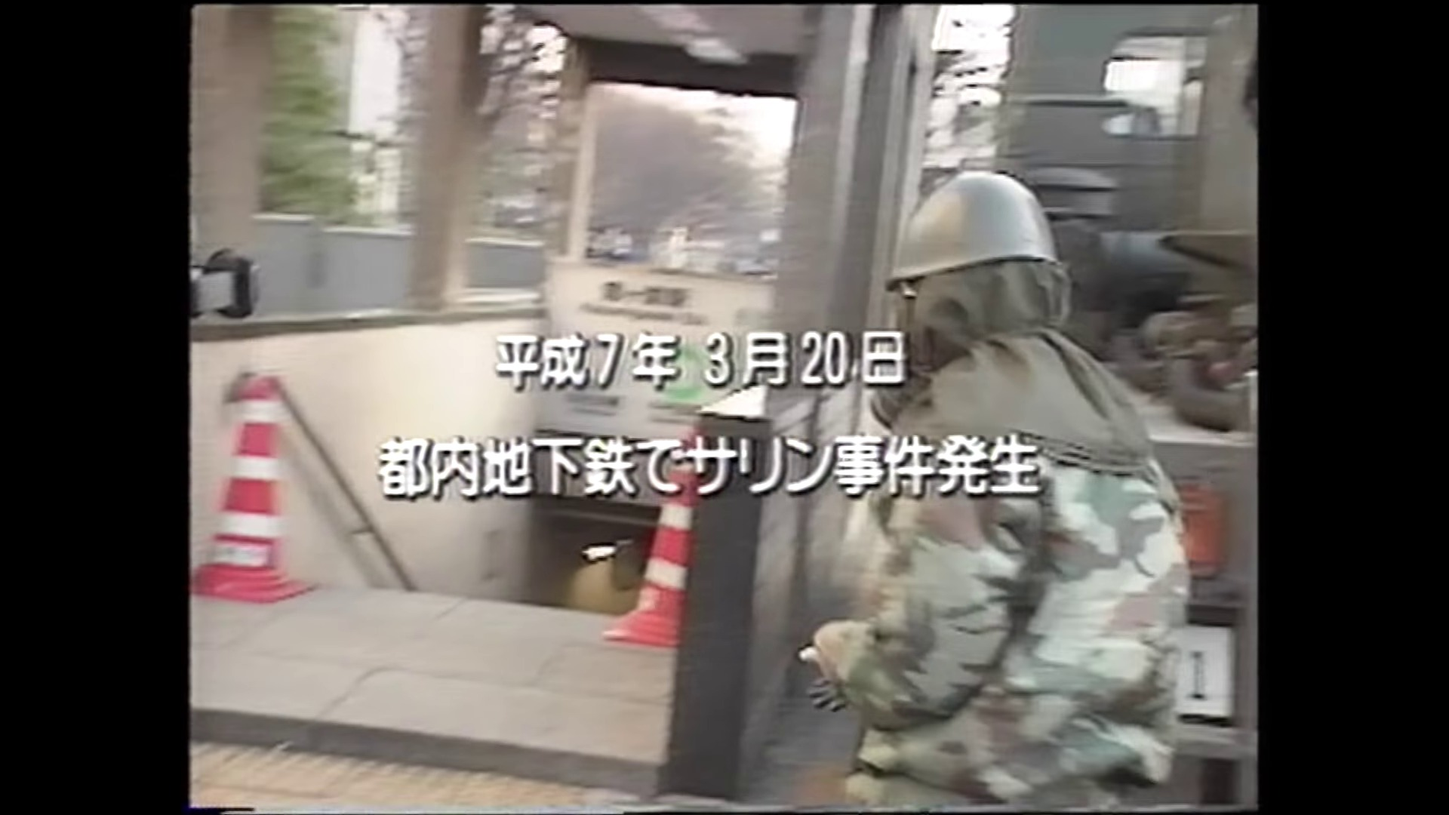
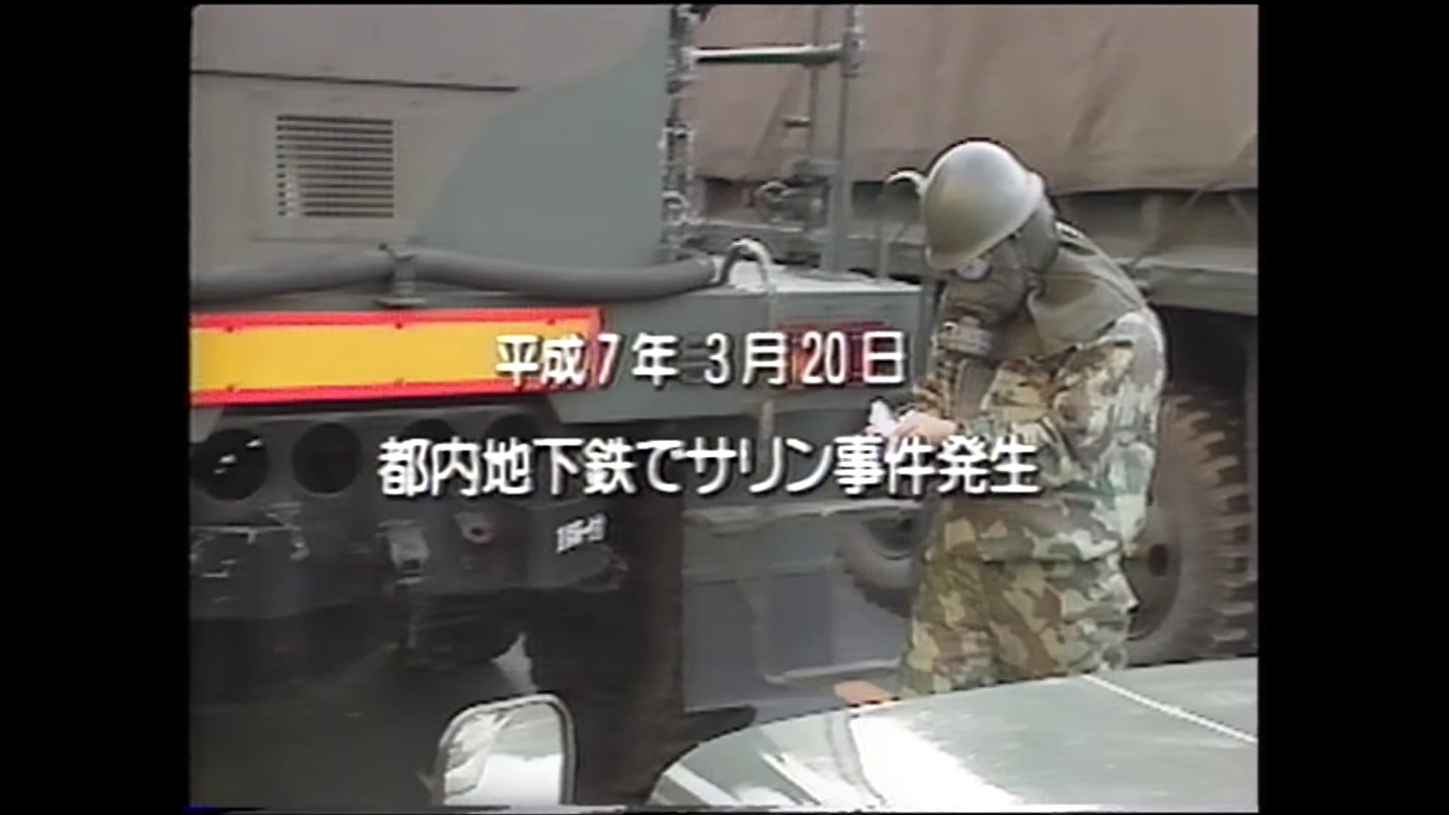
30本目 ⑤b-2 直し: タンクの手書きの字を写さない（M6 の4カットを割り直し・NOGO）・出典の行の「提供：」の重なり
- 焼いた絵の全面でタンクの手書きの字が読めた＝この回の線と混同されないよう外した（footage.NOGO 1059.1〜1062.75）
- c102 0.81倍速／c101 0.98倍速（焼き込みの字幕の頭から）／cb14 0.83倍速／c107 0.86倍速。M6 の出典の行に「再生速度」
- 個人の提供者の表は「提供：○○」のまま＝scene_jiko._ep30_person で重ねない

diff --git a/tools/footage.py b/tools/footage.py
@@ -406,6 +406,7 @@ NOGO = {
     # 🔴 2026-11-05（30本目 ⑤b-1）：印を30本目に替えた（29本目は空のままだった）。30本目は防衛省の記録とフリー素材＝使う区間を焼いて
     #    人の顔・ナンバー・店の名前・読める画面の字を見て、使わない秒が出たら束のチャットで書く（M6 の使える秒は `ref/ep30/eizou_build/make_list30.py` の M6_OK）
     # EP30_NOGO>>> ここから（手で書かない）
+    "M6": [(1059.1, 1062.75, 'タンクの手書きの字が読める')],
     # EP30_NOGO>>> ここまで
 }
 
@@ -691,12 +692,12 @@ USE = {
     #   取ったら `over30.psv` の動きの欄に「映像 a〜b秒」と書いて `make_list30.py` の門番（区間＋止め ≧ 中身・素材の実の長さ）を通してから、欄は束のチャットで道具から書き出す
     #   （手で書かない）＝下の印のあいだ。等速が基本・音は使わない（-an）
     # EP30_USE>>> ここから（手で書かない）
-    "c101": dict(clip="M6", start=1051.26, until=1060.79, rate=1.0, edit=True),   # 使う 9.53秒／要る 9.52秒・元の編集の切れ目 1056.7
-    "c102": dict(clip="M6", start=1042.52, until=1051.18, rate=1.0, edit=True),   # 使う 8.66秒／要る 8.65秒・元の編集の切れ目 1049.6
-    "c107": dict(clip="M6", start=1069.02, until=1076.42, rate=1.0, bias=0.3, edit=True),   # 使う 7.40秒／要る 7.40秒・元の編集の切れ目 1073.5
+    "c101": dict(clip="M6", start=1049.66, until=1059.00, rate=0.98, edit=True),   # 使う 9.34秒／要る 9.52秒・元の編集の切れ目 1051.2 1056.7
+    "c102": dict(clip="M6", start=1042.52, until=1049.55, rate=0.81),   # 使う 7.03秒／要る 8.65秒・元の編集の切れ目 なし
+    "c107": dict(clip="M6", start=1070.00, until=1076.42, rate=0.86, bias=0.3, edit=True),   # 使う 6.42秒／要る 7.40秒・元の編集の切れ目 1073.5
     "c720": dict(clip="M6", start=1076.50, until=1089.38, rate=1.0, edit=True),   # 使う 12.88秒／要る 12.87秒・元の編集の切れ目 1079.2 1086.8
     "c731": dict(clip="M6", start=1091.62, until=1103.30, rate=1.0, edit=True),   # 使う 11.68秒／要る 11.67秒・元の編集の切れ目 1096.8
-    "cb14": dict(clip="M6", start=1060.39, until=1069.02, rate=1.0, edit=True),   # 使う 8.63秒／要る 8.63秒・元の編集の切れ目 1062.7
+    "cb14": dict(clip="M6", start=1062.80, until=1070.00, rate=0.83),   # 使う 7.20秒／要る 8.63秒・元の編集の切れ目 なし
     # EP30_USE>>> ここまで
 }
 # ⚠ 2026-09-23（12本目 ⑤c' 直しE）：ここにあった前の回の注（9.11 の c621・c712／6本目キー橋の「まだ決まっていない

diff --git a/qa_out/ep30_assets.py b/qa_out/ep30_assets.py
@@ -961,6 +961,8 @@ STOCK_GEOM = {}
 # 🆕 防衛省の記録の6カット（4:3 を横いっぱいに＝footage.PILLAR）。`edit=True`＝元の映像の編集のまま場面をまたぐ（footage.outside_shot の注）。
 #    窓＝既定の真ん中（⑤b-2 に場面ごとのコマに窓の線を引いて見た＝駅の札・焼き込みの字幕・足元が窓の内側）。c107 だけ上へ（1073.5〜 の防護マスクの寄りの顔が切れる）
 M6_GEOM = {"c107": dict(bias=0.3)}
+# 🔴 タンクの手書きの字（全面だと数字に百分率の記号が付いたように読める）＝この回の線と混同されないよう写さない。⑤b-2 に焼いた絵で見て決めた（1059.3 から薄く読める・1062.7 で場面が替わる）
+M6_NOGO = (1059.1, 1062.75, "タンクの手書きの字が読める")
 
 
 def cmd_use(only=None, all_=False):
@@ -1010,7 +1012,8 @@ def cmd_use(only=None, all_=False):
         lines.append(f'    "{cid}": dict(clip="{code}", start={a:.2f}, until={b:.2f}, rate={rate}{geo}),   '
                      f'# ショット {sh["start"]:g}〜{sh["until"]:g}秒・使う {b - a:.2f}秒／要る {need:.2f}秒')
     _write_block("EP30_USE", lines)
-    print(f"→ tools/footage.py USE {len(lines)}欄")
+    _write_block("EP30_NOGO", [f'    "M6": [{M6_NOGO!r}],'])
+    print(f"→ tools/footage.py USE {len(lines)}欄・NOGO 1欄")
     for x in lines:
         print(x.strip())
     if skip:

diff --git a/tools/cuts/c1.py b/tools/cuts/c1.py
@@ -57,9 +57,9 @@ SPEC = {}
 #   ⚠ c103・c106 は公開リポに置かない（`police/`）・c105 の衛星写真も git の外＝Actions では飛ばす＝見るなら Modal の qa
 _P60, _P65, _P24, _KS2 = P("police/p60"), P("p65"), P("police/p24"), P("ks2")
 SPEC.update({
-    # c101＝防衛省の記録（出口の隊員＋焼き込みの字幕「平成7年3月20日 都内地下鉄でサリン事件発生」→ 霞ケ関駅の札 → 車内 → タンクの寄り）
+    # c101＝防衛省の記録（隊員と焼き込みの字幕「平成7年3月20日 都内地下鉄でサリン事件発生」→ 霞ケ関駅の出口と札 → 車内）。🔴 タンクの手書きの字の前で終わる（footage.NOGO）
     "c101": ss.vid("c101", t="最初の知らせ", s="除染（当日）〈1995年3月20日・防衛省の記録映像〉"),
-    # c102＝同じ記録（築地駅の札 → 出入口 → トラック＝語りの「築地駅」と合う）
+    # c102＝同じ記録（築地駅の札 → 出入口 → 通りと車列＝語りの「築地駅」と合う）
     "c102": ss.vid("c102", t="別の知らせ", s="除染（当日）〈防衛省の記録映像〉"),
     # c103＝東京消防庁 #60（高い所から見た築地本願寺・消防車の列・人は小さい）＝引用（話している秒だけ・無加工）
     "c103": dict(photo=_P60, panel=True, ptall=True, ground=dict(photo=_P60), color=1.0,

diff --git a/tools/scene_jiko.py b/tools/scene_jiko.py
@@ -942,6 +942,8 @@ def _ep30_person(name, mark):
     rows = [r for r in csv.reader(path.open(encoding="utf-8"), delimiter="\t") if r and not r[0].startswith("#")]
     row = {r[0]: r for r in rows if len(r) > col}.get(code) or []
     who = " ".join((row[col] if len(row) > col else "").split())
+    # 🔧 ⑤b-2：個人の提供者の表は資料館の表示のまま「提供：○○氏」＝出典の行の「（提供：{個人}）」と重ねない（Modal の焼きで「提供：提供：」と出た＝c106）
+    who = who.removeprefix("提供：")
     if not who:
         raise RuntimeError(f"{name}（{code}）: git の外の表 {path.name} に {code} の名前の欄が無い")
     if re.search(r"[<>&]", who) or len(who) > 24:

diff --git a/tools/cuts/cb.py b/tools/cuts/cb.py
@@ -84,7 +84,7 @@ PLAN = {
 
 SPEC = {}
 
-# 🆕 ⑤b-2（2026-11-05）：防衛省の記録の1カット（`ss.vid`）。頭のタンクの寄りは c101 の尻と約0.4秒重なる（離れた章）。ほかの写真は ⑤b-7
+# 🆕 ⑤b-2（2026-11-05）：防衛省の記録の1カット（`ss.vid`）。🔴 タンクの手書きの字の後ろから（footage.NOGO）。ほかの写真は ⑤b-7
 SPEC.update({
     # cb14＝車内の2人 → 足元（語りは「あの朝の問いの答え」）
     "cb14": ss.vid("cb14", t="あの朝の問い", s="除染（当日）〈防衛省の記録映像〉"),

diff --git a/ref/ep30/eizou_list30.md b/ref/ep30/eizou_list30.md
@@ -79,13 +79,13 @@ tags: [project/jiko-kensho, ep30]
 
 | カット | 秒 | 語りの頭 | 画 |
 |---|---|---|---|
-| c101 | 0:00.0〜0:09.5 | 1995年3月20日、月曜の朝。8時21 | 映像 M6＝除染（当日）〈1995年3月20日・防衛省の記録映像〉（映像 1051.26〜1060.79秒） |
-| c102 | 0:09.5〜0:18.2 | 3分後、築地駅の話として、別の知らせが流 | 映像 M6＝除染（当日）〈防衛省の記録映像〉（映像 1042.52〜1051.18秒） |
+| c101 | 0:00.0〜0:09.5 | 1995年3月20日、月曜の朝。8時21 | 映像 M6＝除染（当日）〈1995年3月20日・防衛省の記録映像〉（映像 1049.66〜1059.00秒（0.98倍速）） |
+| c102 | 0:09.5〜0:18.2 | 3分後、築地駅の話として、別の知らせが流 | 映像 M6＝除染（当日）〈防衛省の記録映像〉（映像 1042.52〜1049.55秒（0.81倍速）） |
 | c103 | 0:18.2〜0:27.2 | 8時40分の手前、無線は「爆発物を使用し | 引用 P60＝築地本願寺の周り〈1995年3月20日〉（静止） |
 | c104 | 0:27.2〜0:32.8 | 爆発じゃなかったの？違った。まかれたのは | 陸自 P65＝除染活動に向かう〈当日・提供：陸上自衛隊〉（ゆっくり寄る） |
 | c105 | 0:32.8〜0:42.2 | 公安調査庁の数で、亡くなった方は14人、 | 衛星 SAT:松本＝（静止） |
 | c106 | 0:42.2〜0:50.3 | 地下鉄の事件の4か月前、山梨の、ある教団 | 引用 P24＝山梨県の教団の建物〈1995年1月〉（静止） |
-| c107 | 0:50.3〜0:57.7 | なぜ、止められなかったの？それが1つ目の | 映像 M6＝除染（当日）〈防衛省の記録映像〉（映像 1069.02〜1076.42秒） |
+| c107 | 0:50.3〜0:57.7 | なぜ、止められなかったの？それが1つ目の | 映像 M6＝除染（当日）〈防衛省の記録映像〉（映像 1070.00〜1076.42秒（0.86倍速）） |
 | c108 | 0:57.7〜1:04.8 | 院長の手記では、警視庁の「サリンと推定」 | 場所 KS2＝お堀の向こうの警視庁〈東京・2014年〉（ゆっくり寄る） |
 
 ## §2 章ごと・カットごと
@@ -95,13 +95,13 @@ tags: [project/jiko-kensho, ep30]
 
 | カット | 秒 | 語りの頭 | 種類 | 素材 | 地 | 見せ方 | 副題・札 | 動き | 🔧 | 備考 |
 |---|---|---|---|---|---|---|---|---|---|---|
-| c101 | 0:00.0（9.5） | 1995年3月20日、月曜の朝。8時21 | 映像 | M6 | — | 全面（上下を切る） | 除染（当日）〈1995年3月20日・防衛省の記録映像〉 | 映像 1051.26〜1060.79秒 | 🔧 区間を実測に（⑤b-1＝17:31.3〜17:40.8＝霞ケ関駅の出口→札→車内→タンクの寄り）・額 → 全面 | 防衛省の記録。音は使わない。絵は除染＝朝の語りと時刻が違う＝副題で断る。頭の約3秒に焼き込みの字幕「平成7年3月20日 都内地下鉄でサリン事件発生」 ［冒頭］ |
-| c102 | 0:09.5（8.7） | 3分後、築地駅の話として、別の知らせが流 | 映像 | M6 | — | 全面（上下を切る） | 除染（当日）〈防衛省の記録映像〉 | 映像 1042.52〜1051.18秒 | 🔧 区間を実測に（⑤b-1＝17:22.5〜17:31.2＝築地駅の札→出入口→通りと車列→隊員）・額 → 全面 | 語り「築地駅の話」と札が合う。焼き込みの字幕「平成7年3月20日 都内地下鉄でサリン事件発生」が見える。17:22.4 より前は夜の群衆の場面＝入れない。無線 R2 は音が取れたときだけ ［冒頭］ |
+| c101 | 0:00.0（9.5） | 1995年3月20日、月曜の朝。8時21 | 映像 | M6 | — | 全面（上下を切る） | 除染（当日）〈1995年3月20日・防衛省の記録映像〉 | 映像 1049.66〜1059.00秒（0.98倍速） | 🔧 区間を実測に（⑤b-2＝17:29.7〜17:39.0＝隊員→霞ケ関駅の出口→札→車内・タンクの字の前で終わる）・額 → 全面 | 防衛省の記録。音は使わない。絵は除染＝朝の語りと時刻が違う＝副題で断る。頭の約5秒に焼き込みの字幕「平成7年3月20日 都内地下鉄でサリン事件発生」 ［冒頭］ |
+| c102 | 0:09.5（8.7） | 3分後、築地駅の話として、別の知らせが流 | 映像 | M6 | — | 全面（上下を切る） | 除染（当日）〈防衛省の記録映像〉 | 映像 1042.52〜1049.55秒（0.81倍速） | 🔧 区間を実測に（⑤b-2＝17:22.5〜17:29.5＝築地駅の札→出入口→通りと車列）・額 → 全面 | 語り「築地駅の話」と札が合う。焼き込みの字幕「平成7年3月20日 都内地下鉄でサリン事件発生」が見える。17:22.4 より前は夜の群衆の場面＝入れない。無線 R2 は音が取れたときだけ ［冒頭］ |
 | c103 | 0:18.2（9.0） | 8時40分の手前、無線は「爆発物を使用し | 引用 | P60 | — | 額装（高さいっぱい） | 築地本願寺の周り〈1995年3月20日〉 | 静止 | — | 引用の秒＝語りの約9秒だけ。高さいっぱいの額＋同じ写真のぼかし ［冒頭］ |
 | c104 | 0:27.2（5.6） | 爆発じゃなかったの？違った。まかれたのは | 陸自 | P65 | — | 全面 | 除染活動に向かう〈当日・提供：陸上自衛隊〉 | ゆっくり寄る | — | いちばん大きく隊員が写る点＝語りの「サリンだ」に当てる ［冒頭］ |
 | c105 | 0:32.8（9.4） | 公安調査庁の数で、亡くなった方は14人、 | 衛星 | SAT:松本 | — | 額装（衛星） |  | 静止 | — | 🔴 引き 45.2秒。見出し「亡くなった方 14人・けがをした人 5,800人以上」（語りの1行目）→ 札「長野県松本市」は2行目から。Google の帰属は絵の近く ［冒頭］ |
 | c106 | 0:42.2（8.1） | 地下鉄の事件の4か月前、山梨の、ある教団 | 引用 | P24 | — | 額装（高さいっぱい） | 山梨県の教団の建物〈1995年1月〉 | 静止 | — | 引用の秒＝語りの約9秒だけ ［冒頭］ |
-| c107 | 0:50.3（7.4） | なぜ、止められなかったの？それが1つ目の | 映像 | M6 | — | 全面（上下を切る） | 除染（当日）〈防衛省の記録映像〉 | 映像 1069.02〜1076.42秒 | 🔧 区間を実測に（⑤b-1＝17:49.0〜17:56.4＝床→ノズル→防護マスクの寄りで終わる）・エスカレーター → 防護マスク | 「なぜ止められなかったの？」の問いを顔の見えない防護マスクで受ける ［冒頭］ |
+| c107 | 0:50.3（7.4） | なぜ、止められなかったの？それが1つ目の | 映像 | M6 | — | 全面（上下を切る） | 除染（当日）〈防衛省の記録映像〉 | 映像 1070.00〜1076.42秒（0.86倍速） | 🔧 区間を実測に（⑤b-2＝17:50.0〜17:56.4＝床→ノズル→防護マスクの寄りで終わる）・エスカレーター → 防護マスク | 「なぜ止められなかったの？」の問いを顔の見えない防護マスクで受ける ［冒頭］ |
 | c108 | 0:57.7（7.1） | 院長の手記では、警視庁の「サリンと推定」 | 場所 | KS2 | — | 全面 | お堀の向こうの警視庁〈東京・2014年〉 | ゆっくり寄る | 🔧 聖路加 → 警視庁（⑤b-1＝SLH は c737・cb17 で2回＝3回目は門番に当たる） | 語りの「警視庁の…会見の話」に当てる。原寸で見た（11-05・奥の道に遠い人影1つ＝顔は読めない） ［冒頭］ |
 
 ### 第1章　3路線5本の電車（13カット）
@@ -357,7 +357,7 @@ tags: [project/jiko-kensho, ep30]
 | cb11 | 32:17.8（14.4） | 見方が、分かれているんだね。そう。日付を | 年表 | — | KG1 | — | 1994年6月から1995年3月22日までを1本に＝松本・異臭・土の鑑定・報道・震災・事務長の事件・車の中・地下鉄・一斉捜索＝誰の記録かの色 | — | — | — |
 | cb12 | 32:32.2（10.6） | じゃあ、止められたの？止められなかったの | 模式 | — | KG2 | — | 天秤の形の模式＝左「止められた」・右「止められなかった」＝どちらにも傾けない | — | 🔧 地を分ける | — |
 | cb13 | 32:42.9（10.5） | 白書は書く。松本の事件は教団か、との疑い | 札 | — | KG1 | — | 「白書が書くこと」の札3つ＝地下鉄の前に、松本の事件は教団かとの疑い・強制捜査に入る資料は足りなかった・事務長の事件が契機になった＝それぞれ白書の言葉と分かる形 | — | — | — |
-| cb14 | 32:53.4（8.6） | あの朝の問いの答えは？あの朝、現場は何を | 映像 | M6 | — | 全面（上下を切る） | 除染（当日）〈防衛省の記録映像〉 | 映像 1060.39〜1069.02秒 | 🔧 区間を実測に（⑤b-1＝17:40.4〜17:49.0＝タンクの寄り→車内の2人→足元と床） | c101 の尻と約0.4秒重なる（同じタンクの寄り・離れた章＝門番の許しの内） |
+| cb14 | 32:53.4（8.6） | あの朝の問いの答えは？あの朝、現場は何を | 映像 | M6 | — | 全面（上下を切る） | 除染（当日）〈防衛省の記録映像〉 | 映像 1062.80〜1070.00秒（0.83倍速） | 🔧 区間を実測に（⑤b-2＝17:42.8〜17:50.0＝車内の2人→足元と床） | 🔴 タンクの手書きの字（1059.1〜1062.75＝footage.NOGO）を写さない |
 | cb15 | 33:02.1（7.7） | 国の検討会は書く。当時の現場には、化学物 | 言葉 | — | KG1 | — | 「検知や防護、除染といった概念が十分に普及しておらず」＝消防庁の報告の言葉のカード・出典の行「消防庁 通知 令和元年12月」 | — | 🔧 紙面 → 言葉のカード（同じ段の前の文に違う人数） | — |
 | cb16 | 33:09.8（12.0） | 事件の翌月、消防庁は防護の機材を整えるよ | 陸自 | P78 | — | 全面 | サリンを検知する〈当日・提供：陸上自衛隊〉 | ゆっくり寄る | — | — |
 | cb17 | 33:21.8（11.3） | あとから、備えができていったんだね。そう | 場所 | SLH | — | 全面 | 聖路加国際病院〈東京・2008年〉 | 右へ流す | 🔧 #62 → 聖路加国際病院（語りは松本から病院へ届いた話） | c737 と2回目＝同じ副題 |
@@ -437,7 +437,7 @@ tags: [project/jiko-kensho, ep30]
 | P99 | public-photo | ireihi | 富士ヶ嶺公園の慰霊碑・木と山・階段（縦） | moj:museum/99 | 1440x1920（ファイルは 1920x1440＋EXIF で回転） | PDL1.0 | 資料館の表示に提供なし＝権利表記なし＝PDL1.0 の読み | 出典：公安調査庁 オウム真理教問題デジタルアーカイブ・PDL1.0 | 撮影の年は表示なし | なし | src/eizou/P99.jpg | cc01 | 🔴 EXIF の向き 6＝束の段で回して保存（横倒しで焼かない） |
 | INS1 | public-photo | ins | 立入検査＝緑の塀の前に公安調査庁の職員たち（Commons の日時 2018-04） | commons:PSIA Aum Shinrikyo facility inspection 01.jpg（元＝法務省 キッズルーム・いまの頁は幅800に縮んだ別の点） | 4896x3672 | PDL1.0 | 法務省の写真の写し＝元の頁に権利表記なし＝PDL1.0 の読み（Commons の札は CC BY 4.0） | 出典：法務省 キッズルーム（公安調査庁の写真）／Wikimedia Commons・加工して作成 | 2018-04-12（EXIF） | 公的な任務の顔＝可 | src/eizou/INS1.jpg | cc08 | — |
 | INS2 | public-photo | ins | 立入検査＝「公安調査庁」の背中の職員たち（Commons の日時 2018-07） | commons:PSIA Aum Shinrikyo facility inspection 02.jpg（元＝法務省 キッズルーム） | 1460x1041 | PDL1.0 | 同上 | 出典：法務省 キッズルーム（公安調査庁の写真）／Wikimedia Commons・加工して作成 | 2018-07-06（EXIF） | なし（背中） | src/eizou/INS2.jpg | ca14 | 幅1460＝全面は柔らかい＝⑤b で見る |
-| M6 | commons-video | mod | 『平成6年防衛庁記録』の章「地下鉄サリン事件」17:23〜18:24＝築地駅の札→トラック→出入口→霞ケ関駅の札→車内→タンク→足元→防護マスクの寄り→ホーム→通路→エスカレーター（🌙 18:24〜 は夜＝使わない） | Commons の変換版 1080p（全体 561.7MB＝ffmpeg で要る区間だけ） | 4:3 を 3840x2160 に収めた器・上下を切って全面 | CC BY 3.0 | 防衛省 YouTube の表示 CC BY＋Commons の札 | 出典：防衛省・自衛隊『平成6年防衛庁記録』（CC BY 3.0）・改変：切出 | 1995-03-20 | 防護マスク。⚠ 17:36 の駅の札のコマの上の端に通行人（上下を切ると外れる＝⑤b-1 で確かめる） | src/footage/M6.webm | c101 c102 c107 c720 c731 cb14 | 音は使わない・焼き込みの字幕「平成7年3月20日 都内地下鉄でサリン事件発生」17:28〜17:35 あり。手元の M6.webm は 71.4秒＝🔴 手元の秒＝映像の秒−1034.6（t=21.4 が 17:36 の霞ケ関駅の札＝絵で確かめた）。実効の幅 1420×1076（x=248・cropdetect）＝【映像あり】の幅1280 は満たす・柔らかさは ⑤b-1 で見る |
+| M6 | commons-video | mod | 『平成6年防衛庁記録』の章「地下鉄サリン事件」17:23〜18:24＝築地駅の札→トラック→出入口→霞ケ関駅の札→車内→タンク→足元→防護マスクの寄り→ホーム→通路→エスカレーター（🌙 18:24〜 は夜＝使わない） | Commons の変換版 1080p（全体 561.7MB＝ffmpeg で要る区間だけ） | 4:3 を 3840x2160 に収めた器・上下を切って全面 | CC BY 3.0 | 防衛省 YouTube の表示 CC BY＋Commons の札 | 出典：防衛省・自衛隊『平成6年防衛庁記録』（CC BY 3.0）・改変：切出・再生速度 | 1995-03-20 | 防護マスク。⚠ 17:36 の駅の札のコマの上の端に通行人（上下を切ると外れる＝⑤b-1 で確かめる） | src/footage/M6.webm | c101 c102 c107 c720 c731 cb14 | 音は使わない・焼き込みの字幕「平成7年3月20日 都内地下鉄でサリン事件発生」17:28〜17:35 あり。手元の M6.webm は 71.4秒＝🔴 手元の秒＝映像の秒−1034.6（t=21.4 が 17:36 の霞ケ関駅の札＝絵で確かめた）。実効の幅 1420×1076（x=248・cropdetect）＝【映像あり】の幅1280 は満たす・柔らかさは ⑤b-1 で見る |
 | SAT:松本 | google | map | 長野県松本市の引き＝住宅が特定できない高さ・第一通報者の家を示さない | ⑤b-1 に画面ありの Chrome で撮る | 額 1152x648 | Google | Geo Guidelines（教育・ドキュメンタリー可）＝帰属を絵の近くに出し続ける・色を変えない | 地図データ ©Google・画像 ©提供元 | 現在 | なし | — | c105 | 撮った PNG は公開リポに置かない |
 | SAT:東京都心 | google | map | 霞が関を含む引き＋3路線の線＝札は路線名と霞ケ関だけ | ⑤b-1 | 額 1152x648 | Google | 同上 | 地図データ ©Google・画像 ©提供元 | 現在 | なし | — | c201 | — |
 | SAT:霞が関 | google | map | 警視庁と霞ケ関駅の札だけ | ⑤b-1 | 額 1152x648 | Google | 同上 | 地図データ ©Google・画像 ©提供元 | 現在 | なし | — | c203 c607 | — |
@@ -509,7 +509,7 @@ tags: [project/jiko-kensho, ep30]
 ## §4 門番
 
 - E 0 件
-- ⚠ 29 件
+- ⚠ 33 件
   - ⚠ c101 M6 人＝防護マスク。⚠ 17:36 の駅の札のコマの上の端に通行人（上下を切ると外れる＝⑤b-1 で確かめる）
   - ⚠ c102 M6 人＝防護マスク。⚠ 17:36 の駅の札のコマの上の端に通行人（上下を切ると外れる＝⑤b-1 で確かめる）
   - ⚠ c107 M6 人＝防護マスク。⚠ 17:36 の駅の札のコマの上の端に通行人（上下を切ると外れる＝⑤b-1 で確かめる）
@@ -534,9 +534,13 @@ tags: [project/jiko-kensho, ep30]
   - ⚠ 写真の無い画面が 5 つ続く: c732〜c736
   - ⚠ 写真の無い画面が 5 つ続く: ca06〜ca10
   - ⚠ 写真の無い画面が 6 つ続く: cc10〜cc15
+  - ⚠ c101 映像が等速でない（0.98倍速）
+  - ⚠ c102 映像が等速でない（0.81倍速）
+  - ⚠ c107 映像が等速でない（0.86倍速）
   - ⚠ c204 映像の区間が未定（X204・要る秒 8.17）
   - ⚠ c703 映像の区間が未定（X703・要る秒 8.60）
   - ⚠ c710 映像の区間が未定（X710・要る秒 11.17）
+  - ⚠ cb14 映像が等速でない（0.83倍速）
   - ⚠ cb20 映像の区間が未定（Xb20・要る秒 6.18）
   - ⚠ cc17 映像の区間が未定（Xc17・要る秒 10.02）
 
@@ -603,7 +607,7 @@ tags: [project/jiko-kensho, ep30]
 
 ### 5-7c. ⑤b-2 で決めたこと（2026-11-05・束と冒頭）
 - 🔴 **防衛省の記録の6カットは元の編集のまま場面をまたぐ**＝`footage.USE` の `edit=True`（尻も実測の表の中＝夜の場面へ出ない・フリー素材には効かない）。窓は真ん中・c107 だけ上へ（防護マスクの顔）
-- **M6 の原寸で見る3点**＝①タンクの手書きの数字（1059.5〜1062.7）＝単位なしの備品の番号の見た目＝この回の線（§B2-12）の話には読めない＝残す ②1049.8 の「右下の乗用車」は自衛隊の車のボンネット＝ナンバーなし ③1069.5 の左下の黒い機材＝字なし＝残す
+- **M6 の原寸で見る3点**＝🔴 ①タンクの手書きの字（1059.3〜1062.7）＝原寸の1コマでは番号に見えて残すと決めたが、**焼いた絵の全面で数字に百分率の記号が付いたように読めた**（cb14 0.2）＝この回の線（§B2-12）と混同されないよう外した（`footage.NOGO`）。📐 区間を割り直した＝c102 1042.52〜1049.55（0.81倍速）／c101 1049.66〜1059.00（0.98倍速＝焼き込みの字幕の頭から）／cb14 1062.80〜1070.00（0.83倍速）／c107 1070.00〜1076.42（0.86倍速）／c720・c731 は同じ＝5-7b の区間は古い ②1049.8 の「右下の乗用車」は自衛隊の車のボンネット＝ナンバーなし ③1069.5 の左下の黒い機材＝字なし＝残す
 - **人とナンバー**＝升目2点（KS1 ナンバー・HB 顔）・切り落とし1点（P62 の上＝写真を構える人と見物の人）。BY-SA の TKS は人もナンバーも無い。⚠ P5 のバイクの札は読める＝上の段が読めず地名が無い＝引用は加工しない＝そのまま（⑤c で額の大きさで見る）。⚠ P39 の右下の小さい札の字は途中で切れている＝人の名か読めない＝⑤c で見る
 - 🔴 **紙面の切り口**（親が絵を見た）＝PA1 は年表の3行＋🔴 注の行（執行された人の名前）と本名を隠した／PA2 は🔴 なお書きの文（教祖の家族）を隠した／PA4 は🔴 入口の絵の語の壁を写さない（線の数字が入る）＝「当サイトについて」の段に／JC は1文だけ（前の文を白で消す）／FD1 は1文だけ（次の文を白で消す）
 - 🔴 **内蔵ブラウザの中で紙面を2倍に描いた**（`moj.go.jp` は画面なしの Chrome も 403＝取り方は替えない・内蔵ブラウザの画面写しは 800px まで）＝頁の要素を計算済みの字の形ごと写して SVG の foreignObject → canvas → PNG。隠すのはここで

diff --git a/ref/ep30/eizou_build/decisions30.md b/ref/ep30/eizou_build/decisions30.md
@@ -59,7 +59,7 @@
 
 ### 5-7c. ⑤b-2 で決めたこと（2026-11-05・束と冒頭）
 - 🔴 **防衛省の記録の6カットは元の編集のまま場面をまたぐ**＝`footage.USE` の `edit=True`（尻も実測の表の中＝夜の場面へ出ない・フリー素材には効かない）。窓は真ん中・c107 だけ上へ（防護マスクの顔）
-- **M6 の原寸で見る3点**＝①タンクの手書きの数字（1059.5〜1062.7）＝単位なしの備品の番号の見た目＝この回の線（§B2-12）の話には読めない＝残す ②1049.8 の「右下の乗用車」は自衛隊の車のボンネット＝ナンバーなし ③1069.5 の左下の黒い機材＝字なし＝残す
+- **M6 の原寸で見る3点**＝🔴 ①タンクの手書きの字（1059.3〜1062.7）＝原寸の1コマでは番号に見えて残すと決めたが、**焼いた絵の全面で数字に百分率の記号が付いたように読めた**（cb14 0.2）＝この回の線（§B2-12）と混同されないよう外した（`footage.NOGO`）。📐 区間を割り直した＝c102 1042.52〜1049.55（0.81倍速）／c101 1049.66〜1059.00（0.98倍速＝焼き込みの字幕の頭から）／cb14 1062.80〜1070.00（0.83倍速）／c107 1070.00〜1076.42（0.86倍速）／c720・c731 は同じ＝5-7b の区間は古い ②1049.8 の「右下の乗用車」は自衛隊の車のボンネット＝ナンバーなし ③1069.5 の左下の黒い機材＝字なし＝残す
 - **人とナンバー**＝升目2点（KS1 ナンバー・HB 顔）・切り落とし1点（P62 の上＝写真を構える人と見物の人）。BY-SA の TKS は人もナンバーも無い。⚠ P5 のバイクの札は読める＝上の段が読めず地名が無い＝引用は加工しない＝そのまま（⑤c で額の大きさで見る）。⚠ P39 の右下の小さい札の字は途中で切れている＝人の名か読めない＝⑤c で見る
 - 🔴 **紙面の切り口**（親が絵を見た）＝PA1 は年表の3行＋🔴 注の行（執行された人の名前）と本名を隠した／PA2 は🔴 なお書きの文（教祖の家族）を隠した／PA4 は🔴 入口の絵の語の壁を写さない（線の数字が入る）＝「当サイトについて」の段に／JC は1文だけ（前の文を白で消す）／FD1 は1文だけ（次の文を白で消す）
 - 🔴 **内蔵ブラウザの中で紙面を2倍に描いた**（`moj.go.jp` は画面なしの Chrome も 403＝取り方は替えない・内蔵ブラウザの画面写しは 800px まで）＝頁の要素を計算済みの字の形ごと写して SVG の foreignObject → canvas → PNG。隠すのはここで

diff --git a/ref/CREDITS.md b/ref/CREDITS.md
@@ -3537,4 +3537,4 @@ BY-SA の表示＝撮影者・許諾名と URL・素材の URL・無改変（許
 
 | 記号 | 使うカット | 画面の出典 | ライセンス | 頁 | 取った日 |
 |---|---|---|---|---|---|
-| `M6` | c101 c102 c107 c720 c731 cb14 | 出典：防衛省・自衛隊『平成6年防衛庁記録』（CC BY 3.0）・改変：切出 | CC BY 3.0 | https://commons.wikimedia.org/wiki/File:%E5%B9%B3%E6%88%90%EF%BC%96%E5%B9%B4%E9%98%B2%E8%A1%9B%E5%BA%81%E8%A8%98%E9%8C%B2.webm | 2026-11-05 |
+| `M6` | c101 c102 c107 c720 c731 cb14 | 出典：防衛省・自衛隊『平成6年防衛庁記録』（CC BY 3.0）・改変：切出・再生速度 | CC BY 3.0 | https://commons.wikimedia.org/wiki/File:%E5%B9%B3%E6%88%90%EF%BC%96%E5%B9%B4%E9%98%B2%E8%A1%9B%E5%BA%81%E8%A8%98%E9%8C%B2.webm | 2026-11-05 |
